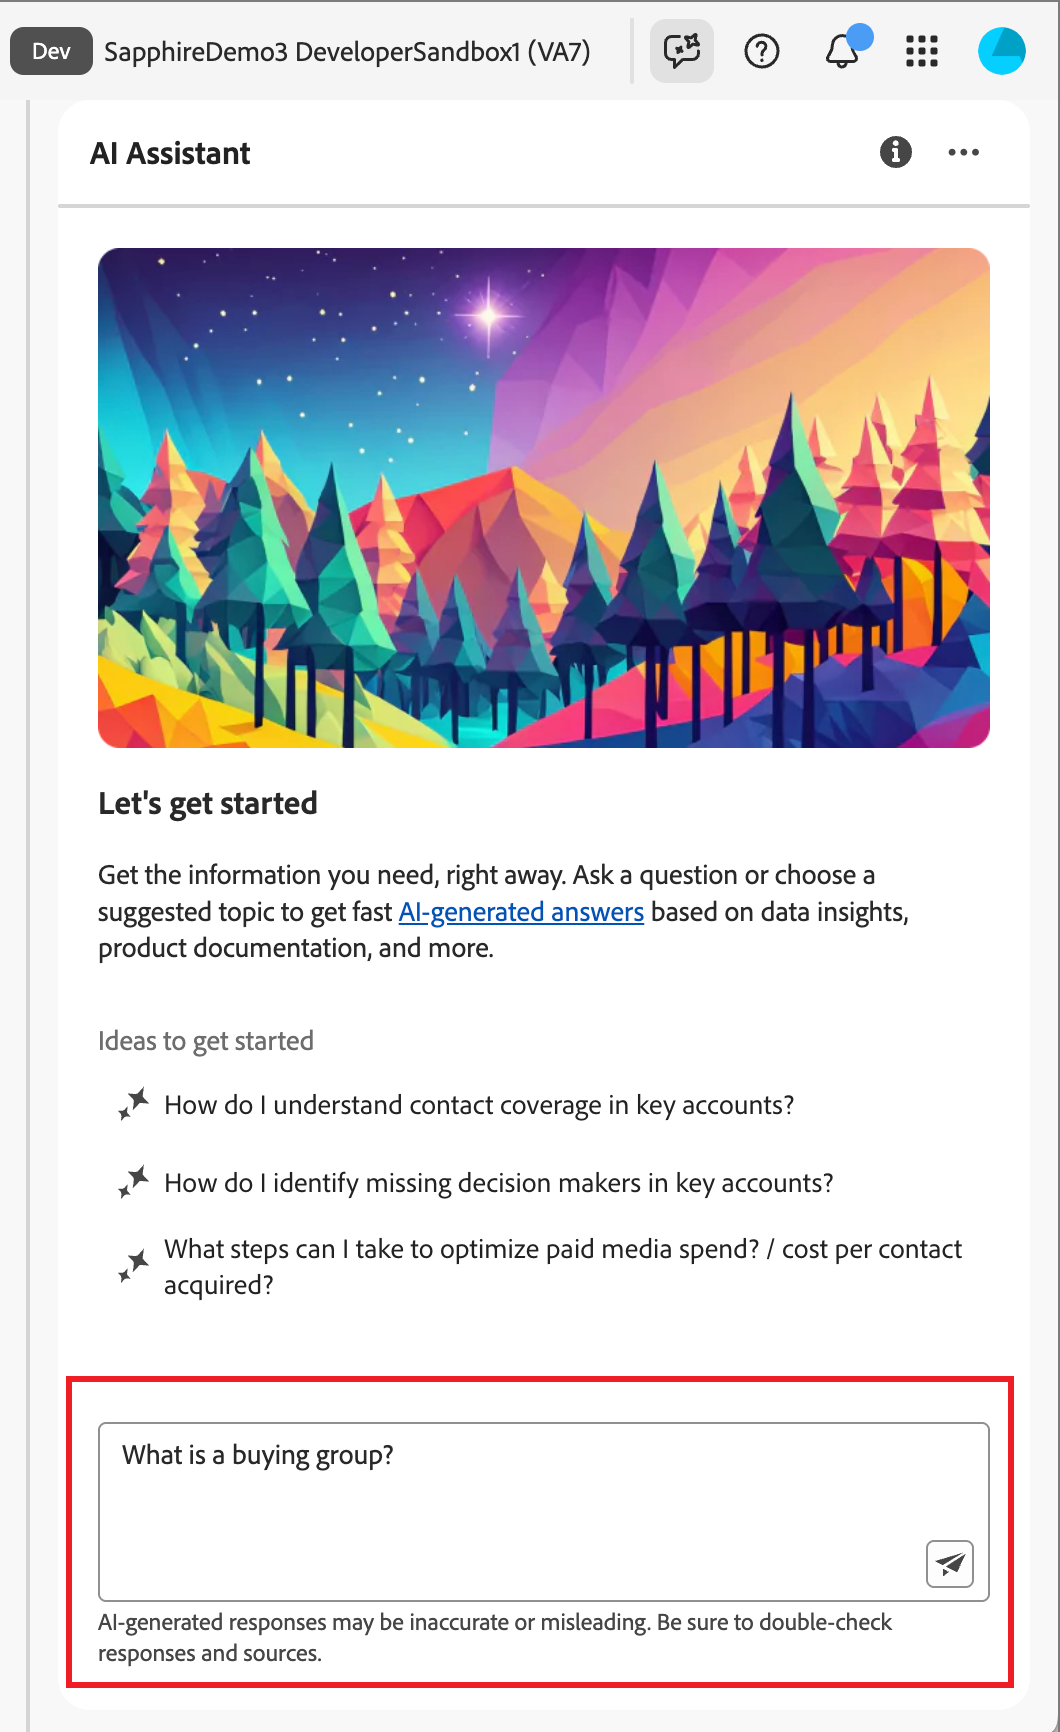
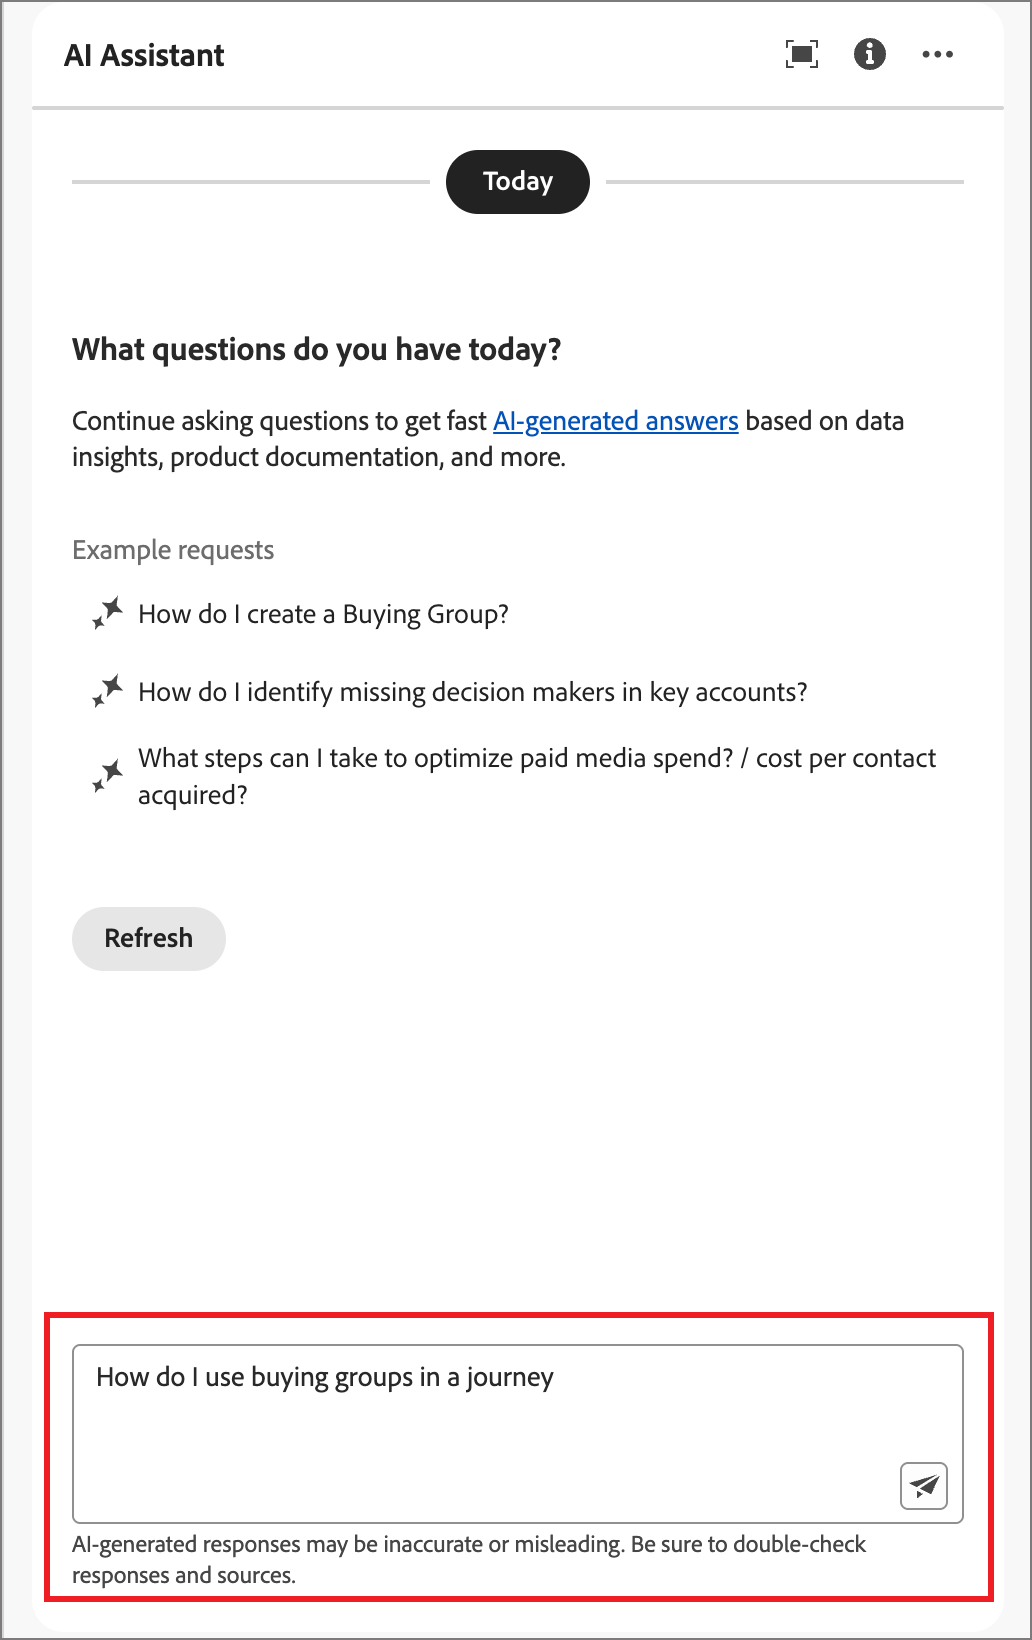
Updates for AI assistant usage and edits for product responses

diff --git a/help/user/ai-assistant/use-ai-assistant.md b/help/user/ai-assistant/use-ai-assistant.md
@@ -7,7 +7,7 @@ exl-id: 2d642c34-6f6d-4a0f-98c5-4b9ea1cdaa29
 ---
 # Use AI Assistant in Journey Optimizer B2B Edition
 
-In Journey Optimizer B2B Edition, AI Assistant is a user interface feature that you can use to understand product concepts, quickly navigate and learn about the Journey Optimizer B2B Edition features, and get operational insights for your specific environment. It is also available in several products across Adobe Experience Cloud.
+In Journey Optimizer B2B Edition, AI Assistant is a user interface feature that you can use to understand product concepts, quickly navigate and learn about the product features, and get operational insights for your environment. It is also available in several products across Adobe Experience Cloud.
 
 >[!IMPORTANT]
 >
@@ -15,41 +15,37 @@ In Journey Optimizer B2B Edition, AI Assistant is a user interface feature that 
 
 To access AI Assistant, click the icon in the header. AI Assistant opens in a panel on the right.
 
-![Click the icon to access the AI Assistant](./assets/ai-assistant-icon-displayed.png){width="420" zoomable="yes"}
+![Click the icon to access the AI Assistant](./assets/ai-assistant-icon-displayed.png){width="420"}
 
 The AI Assistant interface appears, immediately providing you with information to get started. You can use the options provided under _Ideas to get started_ to answer questions and commands, such as:
 
-* Which of my account journeys were published?
+* Which journeys were published?
 * What solution interests were created?
 * Tell me the key benefits of Journey Optimizer B2B Edition.
 
 In Adobe Journey Optimizer B2B Edition, AI Assistant supports the following use cases:
 
-## Product knowledge
+## Ask product knowledge questions
 
-Product knowledge questions are about Journey Optimizer B2B Edition concepts related to aspects of Adobe Journey Optimizer. Some examples of product knowledge questions include:
+Product knowledge questions are about Journey Optimizer B2B Edition concepts and how-to information. Some examples of product knowledge questions include:
 
 * How do I set up SMS provider accounts?
-* How do I send an email in an account journey?
+* How do I send an email in a journey?
 * How can I personalize my email content?
 
-To ask a product question, enter it in the field at the bottom of the panel and press enter.
+To ask a product question, enter it in the field at the bottom of the panel and press enter. For example, when you need to learn how to use a buying group in a journey. In this case, you enter _How do I use a buying group in a journey?_ After you submit the question, AI Assistant queries its knowledge base and compiles an answer in a few seconds.
 
-![Enter a question in the text box](./assets/ai-assistant-ask-question.png){width="420" zoomable="yes"}
+![Enter a question in the text box](./assets/ai-assistant-ask-question.png){width="420"}
 
-You can verify the responses returned by AI Assistant by reviewing the citations available with every product knowledge answer.
++++View an example answer
 
-To view citations and validate AI Assistant's response, select **[!UICONTROL Show sources]**. 
+![Enter a question in the text box](./assets/ai-assistant-product-answer.png){width="420"}
 
-![Results from the AI Assistant query](./assets/ai-assistant-answer.png){width="420" zoomable="yes"}
++++
 
-AI Assistant updates the interface and provides you with links to documentation that corroborate the initial response. Additionally, when citations are enabled, AI Assistant updates the response to include footnotes for indicating the specific parts of the answer that reference the provided documentation.
+## Ask operational insights questions
 
-Use the thumb up or thumb down to rate the quality of the answer.
-
-## Operational insights
-
-Operational insight questions are about the journey objects in your organization's sandbox. Some examples of operational insight questions or prompts include:
+Operational insights questions are about the journey objects in your organization's sandbox. You can ask questions about operational artifacts, such as account audience, account journey, solution interest, and buying group template. Some examples of operational insights questions or prompts include:
 
 * How many live journeys do I have in Adobe Journey Optimizer B2B Edition?
 * Give me a list of all the scheduled journeys
@@ -61,38 +57,62 @@ You must be in an active sandbox for AI Assistant to provide a sufficient respon
 >
 >The only Adobe Journey Optimizer B2B Edition objects supported by the AI Assistant operational insights questions are listed in the [operational insights domain table](./ai-assistant-overview.md#operational-insights). It can access data only for the sandbox that you are currently in.
 
-<!-- Select to view an example of an operational insights question.
+To ask an operational insights question, enter it in the field at the bottom of the panel and press enter. For example, when you want to know about the audiences for your sandbox. In this case, you enter _How many audiences are there?_.  AI Assistant provides a count of the audiences in your sandbox and an explanation of how it computed the answer. In the following example response, AI Assistant provides a link to access the audiences in the UI and outlines the steps it took to identify the number of audiences.
 
-In the following example, AI Assistant receives the following query: _Show me dataflows that were created using the Amazon S3 source._
+![AI Assistant response for how many audiences](./assets/ai-assistant-insights-answer.png){width="420"}
 
-screen
+You can follow your initial inquiry by asking for a list of artifacts, such as _List the top 5 by size_. AI Assistant returns a table with the top five items in the query and their corresponding IDs. Click the _Download_ ( ![Download icon](../assets/do-not-localize/icon-download.svg) ) icon to download the table as a CSV file.
 
-AI Assistant responds with a table list of your dataflows and their corresponding IDs. Click the _Download_ icon ( Download icon ) to download the table as a CSV file. To view the entire table, click the _Expand_ icon ( Expand icon ).
+![AI Assistant response for a list of live journeys](./assets/ai-assistant-artifacts-query.png){width="420"}
 
-screen
+To view the entire table in AI Assistant, click the _Maximize_ ( ![Maximize icon](../assets/do-not-localize/icon-maximize.svg) ) icon. In the expanded table view, click **[!UICONTROL Download CSV]** to save the information as a CSV file.
 
-An expanded view of the table appears, providing you with a more comprehensive list of dataflows based on the parameters of your query.
+![AI Assistant response for a list of live journeys](./assets/ai-assistant-artifacts-maximize.png){width="600" zoomable="yes"}
 
-screen
+## Verify responses
 
-When prompted with an operational insights question, AI Assistant provides an explanation of how it computed the answer. In the following example, AI Assistant outlines the steps it took in order to identify the dataflows that were created using the Amazon S3 source.
+AI Assistant includes tools that you can use to verify and validate responses. 
 
-screen
+### Product knowledge sources
 
-You can also provide filters and modifications to your questions, and you can instruct AI Assistant to render its findings based on the filters that you include. For example, you can ask AI Assistant to show you a trend of the count of segment definitions in the order of their created date, remove segment definitions with zero total profiles, and use month names instead of integers when displaying the data.
+After receiving a response for a product question, select **[!UICONTROL Show source]** to view the product knowledge source citations used to generate the AI Assistant response.
 
-### Verify operational insights responses
+AI Assistant provides links to the documentation that corroborates the initial response. It also adds footnotes to the response to indicate the specific parts of the answer that reference the linked documentation sources.
 
-You can verify each response related to operational insights questions using an SQL query that AI Assistant provides.
+![Results from the AI Assistant query](./assets/ai-assistant-product-answer-sources.png){width="420"}
 
-Select to view example of verifying operational insights responses
+### Operational insights sources
 
-After receiving an answer for an operational insights question, click **[!UICONTROL Show sources]** and then select **[!UICONTROL View source query]**.
+After receiving a response for an operational insights question, click **[!UICONTROL Show source]** and then select **[!UICONTROL View source query]**.
 
-screen
+You can verify each response related to operational insights questions using an SQL query that AI Assistant provides. When queried with an operational insights question, AI Assistant provides an SQL query that you can use to verify the process that it took to compute the answer. This source query is for verification purposes only and is not supported on Query Service.
 
-When queried with an operational insights question, AI Assistant provides an SQL query that you can use to verify the process that it took to compute its answer. This source query is for verification purposes only and is not supported on Query Service.
+![Results from the AI Assistant query](./assets/ai-assistant-artifacts-query-source.png){width="550" zoomable="yes"}
 
-screen  
+## Provide feedback
 
- -->
+Use the _Thumb up_ ( ![Thumb up](../assets/do-not-localize/icon-thumb-up.svg) ) or _Thumb down_ ( ![Thumb down](../assets/do-not-localize/icon-thumb-down.svg) ) icons to rate the usefulness and quality of the response. Complete the brief survey form according to your experience and click **[!UICONTROL Submit]**. The information that you provide is used to make improvements to AI Assistant. 
+
+If you notice something in the response that is problematic, click the _Flag_ ( ![Flag icon](../assets/do-not-localize/icon-flag.svg) ) icon. Use the form to describe the problem and click **[!UICONTROL Submit]** to report the issue.
+
+![AI Assistant response - feedback icons](./assets/ai-assistant-response-feedback-icons.png){width="420"}
+
++++View forms
+
+>[!BEGINTABS]
+
+>[!TAB Thumb up]
+
+![AI Assistant response - Thumb up positive feedback form](./assets/ai-assistant-response-feedback-positive-form.png){width="500" zoomable="yes"}
+
+>[!TAB Thumb down]
+
+![AI Assistant response - Thumb dwon negative feedback form](./assets/ai-assistant-response-feedback-negative-form.png){width="500" zoomable="yes"}
+
+>[!TAB Flag]
+
+![AI Assistant response - Flag problem feedback form](./assets/ai-assistant-response-feedback-flagged-form.png){width="500" zoomable="yes"}
+
+>[!ENDTABS]
+
++++

diff --git a/help/user/accounts/account-lists.md b/help/user/accounts/account-lists.md
@@ -14,29 +14,27 @@ When an account list is in a _Live_ (published) state, it is available for use i
 
 ## Access and browse account lists
 
-1. In your Adobe Experience Platform home page, click Adobe Journey Optimizer B2B Edition.
+On the left navigation, expand **[!UICONTROL Accounts]** and click **[!UICONTROL Account lists]**.
 
-1. On the left navigation, expand **[!UICONTROL Accounts]** and click **[!UICONTROL Account lists]**.
+![Access account journeys](./assets/account-lists-browse.png){width="800" zoomable="yes"}
 
-   ![Access account journeys](./assets/account-lists-browse.png){width="800" zoomable="yes"}
+The displayed _[!UICONTROL Account lists]_ page includes the following columns:
 
-   The displayed _[!UICONTROL Account lists]_ page includes the following columns:
+* [!UICONTROL Name] (click the name of the account list to view details)
+* [!UICONTROL Status]
+* [!UICONTROL Type] 
+* [!UICONTROL Last updated on]
+* [!UICONTROL Last updated by]
+* [!UICONTROL Creation date]
+* [!UICONTROL Created by]
 
-   * [!UICONTROL Name] (click the name of the account list to view details)
-   * [!UICONTROL Status]
-   * [!UICONTROL Type] 
-   * [!UICONTROL Last updated on]
-   * [!UICONTROL Last updated by]
-   * [!UICONTROL Creation date]
-   * [!UICONTROL Created by]
-
-  This table includes the ability to search by Name. The sort function is currently unavailable.
+This table includes the ability to search by Name. The sort function is currently unavailable.
 
 You can customize the displayed table by clicking the _Column settings_ ( ![Column settings](../assets/do-not-localize/icon-column-settings.svg) ) icon in the top-right corner and selecting or clearing the checkboxes. 
 
 ![Choose the columns to display in the acount journeys list](./assets/account-lists-list-columns.png){width="300"}
 
-To view the description for an account list, click the _Information_ icon next to the name.
+To view the description for an account list, click the _Information_ ( ![Information icon](../assets/do-not-localize/icon-info.svg) ) icon next to the name.
 
 ## Create an account list
 

diff --git a/help/user/journeys/journey-overview.md b/help/user/journeys/journey-overview.md
@@ -23,24 +23,22 @@ To get started with account journeys:
 
 ## Access and browse account journeys
 
-1. In your Adobe Experience Platform home page, click Adobe Journey Optimizer B2B Edition.
+On the left navigation, click **[!UICONTROL Account journeys]**.
 
-1. On the left navigation, click **[!UICONTROL Account journeys]**.
+![Access account journeys](./assets/account-journey-browse.png){width="800" zoomable="yes"}
 
-   ![Access account journeys](./assets/account-journey-browse.png){width="800" zoomable="yes"}
+The displayed journeys page includes the following columns:
 
-   The displayed journeys page includes the following columns:
+* [!UICONTROL Name] (click the name to open the journey for editing)
+* [!UICONTROL Status]
+* [!UICONTROL Description] 
+* [!UICONTROL Created by]
+* [!UICONTROL Last updated at]
+* [!UICONTROL Last updated by]
+* [!UICONTROL Published on]
+* [!UICONTROL Published by]
 
-   * [!UICONTROL Name] (click the name to open the journey for editing)
-   * [!UICONTROL Status]
-   * [!UICONTROL Description] 
-   * [!UICONTROL Created by]
-   * [!UICONTROL Last updated at]
-   * [!UICONTROL Last updated by]
-   * [!UICONTROL Published on]
-   * [!UICONTROL Published by]
-
-  Use the _Search_ tool at the top to locate the journey by name. You can sort the list by _[!UICONTROL Status]_ by clicking the column header.
+Use the _Search_ tool at the top to locate the journey by name. You can sort the list by _[!UICONTROL Status]_ by clicking the column header.
 
 You can customize the columns that are displayed in the table by clicking the _Customize table_ ( ![Customize table](../assets/do-not-localize/icon-column-settings.svg) ) icon in the top-right corner. Select or clear the checkboxes in the dialog and click **[!UICONTROL Apply]**. 
 

diff --git a/help/user/buying-groups/buying-groups-overview.md b/help/user/buying-groups/buying-groups-overview.md
@@ -30,10 +30,8 @@ You can increase marketing effectiveness by establishing buying groups in Journe
 
 1. Create buying groups.
 
-   Options:
-   * Use [solution interest](./solution-interests.md) and [role template](./buying-groups-role-templates.md)
-   * Use third-party import
-   * Generate from AI/ML
+   * Define [solution interest](./solution-interests.md) and [role template](./buying-groups-role-templates.md)
+   * [Create the buying group](./buying-groups-create.md#create-buying-groups) and assign [buying group stages](./buying-group-stages.md).
 
 1. Identify missing people.
 
@@ -47,7 +45,7 @@ You can increase marketing effectiveness by establishing buying groups in Journe
    * Send to LinkedIn Destination
    * Enrich with Zoominfo -->
 
-1. Use in an account journey through the associated solution interest.
+1. Use the buying group your account journeys.
 
 ## View buying groups and components
 

diff --git a/help/user/buying-groups/buying-groups-create.md b/help/user/buying-groups/buying-groups-create.md
@@ -9,8 +9,6 @@ exl-id: 60d0a5f3-cd12-4c36-bdc4-c37c4913ac0a
 
 After the buying group is created, it is available for use in an account journey through the [solution interest](./solution-interests.md).
 
-1. In your Adobe Experience Platform home page, click Adobe Journey Optimizer B2B Edition.
-
 1. On the left navigation, click **[!UICONTROL Buying groups]**.
 
 1. In the _[!UICONTROL Buying groups]_ page, click the **[!UICONTROL Create buying groups]** at the top-right on the page.

diff --git a/help/user/buying-groups/solution-interests.md b/help/user/buying-groups/solution-interests.md
@@ -12,8 +12,6 @@ Before you create buying groups, you should know what you are selling and who yo
 
 ## Access and browse solution interests
 
-1. In your Adobe Experience Platform home page, click Adobe Journey Optimizer B2B Edition.
-
 1. On the left navigation, click **[!UICONTROL Buying Groups]**.
 
 1. In the _[!UICONTROL Buying Groups]_ page, select the **[!UICONTROL Solution interest]** tab.

diff --git a/help/user/buying-groups/buying-groups-role-templates.md b/help/user/buying-groups/buying-groups-role-templates.md
@@ -12,8 +12,6 @@ In a B2B market, buying decisions are usually made by multiple individuals. Thos
 
 ## Access and browse role templates
 
-1. In your Adobe Experience Platform home page, click Adobe Journey Optimizer B2B Edition.
-
 1. On the left navigation, click **[!UICONTROL Buying groups]**.
 
 1. In the _[!UICONTROL Buying groups]_ page, select the **[!UICONTROL Roles Templates]** tab.
